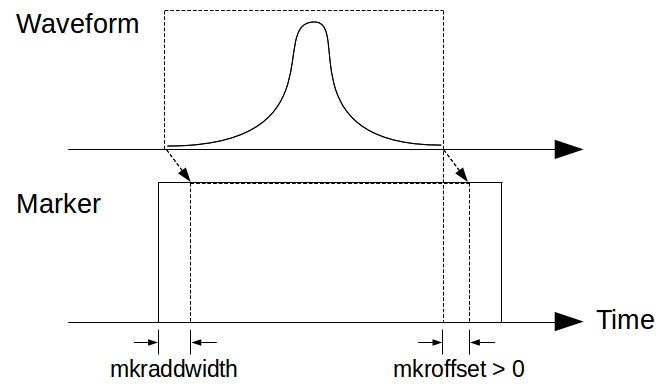
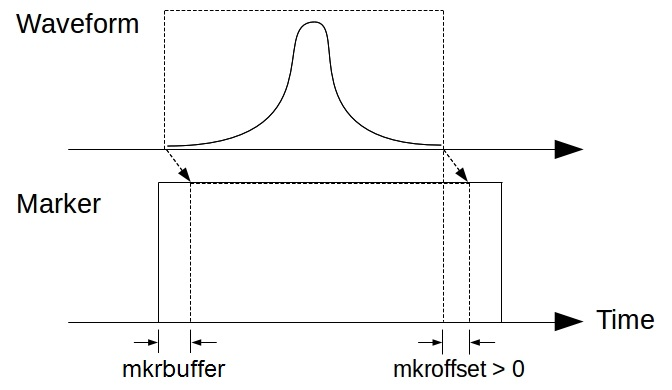
Gengyan - Update M9330AWG Rename mkraddwidth with mkrbuffer

Changed region(s): [[0.1562, 0.9231, 0.375, 0.9846]]

diff --git a/@M9330AWG/M9330AWG.m b/@M9330AWG/M9330AWG.m
@@ -16,11 +16,14 @@ classdef M9330AWG < handle
         marker4 = zeros(1, 256);
         mkrauto = 1; % Automatic marker option
         mkroffset = 0; % Shift marker with respect to waveform
-        mkraddwidth = 32; % Additional marker width outside waveform
+        mkrbuffer = 32; % Additional marker width outside waveform
         TRIGINPORT = 1;	% Port number for trigger input
         OUTPUTCONFIG = 2;	% 0 = differential, gain can be 0.340 to 0.500
                            	% 1 = single-ended, gain can be 0.170 to 0.250 
                          	% 2 = amplified (single-ended), gain can be 0.340 to 0.500
+    end
+    properties (Hidden)
+        mkraddwidth;
     end
     
     methods
@@ -45,6 +48,13 @@ classdef M9330AWG < handle
             samplingrate = GetSampleRate(self);
         end
         
+        function set.mkraddwidth(self, buffer)
+            SetMkrBuffer(self, buffer);
+        end
+        
+        function buffer = get.mkraddwidth(self)
+            buffer = GetMkrBuffer(self);
+        end
         % Declaration of all methods
         % Each method is defined in a separate file
         Initialize(self);
@@ -61,5 +71,7 @@ classdef M9330AWG < handle
     methods (Hidden)
         % Deprecated methods
         AutoMarker(self);
+        SetMkrBuffer(self, buffer);
+        buffer = GetMkrBuffer(self);
     end
 end

diff --git a/@M9330AWG/Generate.m b/@M9330AWG/Generate.m
@@ -51,12 +51,12 @@ function Generate(self)
         % Rescale waveforms to fullscale
         waveforms(ch, :) = waveforms(ch, :) * fullscale;
         if self.mkrauto
-            % Increase marker width by 2*mkraddwidth
+            % Increase marker width by 2*mkrbuffer
             for index = find(diff(markers(2*ch,:))) % Find all jumps in marker
                 if (markers(2*ch, index) == 0)    % Rising edge
-                    markers(2*ch, max(1, index-self.mkraddwidth+1):index) = 1;
+                    markers(2*ch, max(1, index-self.mkrbuffer+1):index) = 1;
                 else % Falling edge
-                    markers(2*ch, index+1:min(newlength, index+self.mkraddwidth)) = 1;
+                    markers(2*ch, index+1:min(newlength, index+self.mkrbuffer)) = 1;
                 end
             end
             % Shift marker by mkroffset

diff --git a/ExampleCode/ExampleCode_M9330A.m b/ExampleCode/ExampleCode_M9330A.m
@@ -29,17 +29,17 @@ pulsegen1.Generate();
 
 % Plot waveforms and markers
 figure(1);
-subplot(2,1,1);
+subplot(2, 1, 1);
 hold off;
 plot(pulsegen1.timeaxis/1e-6, pulsegen1.waveform1);
 hold on;
-plot(pulsegen1.timeaxis/1e-6, pulsegen1.marker1, 'r');
+plot(pulsegen1.timeaxis/1e-6, pulsegen1.marker2, 'r');
 title('Channel 1');
 legend('Waveform', 'Marker');
-subplot(2,1,2);
+subplot(2, 1, 2);
 hold off;
 plot(pulsegen1.timeaxis/1e-6, pulsegen1.waveform2/max(abs(pulsegen1.waveform2)));
 hold on;
-plot(pulsegen1.timeaxis/1e-6, pulsegen1.marker2, 'r');
+plot(pulsegen1.timeaxis/1e-6, pulsegen1.marker4, 'r');
 xlabel('Time (\mus)');
 title('Channel 2');

diff --git a/@M9330AWG/GetMkrBuffer.m b/@M9330AWG/GetMkrBuffer.m
@@ -1,0 +1,4 @@
+function buffer = GetMkrBuffer(self)
+    warning('''mkraddwidth'' is deprecated. Use ''mkrbuffer'' instead.');
+    buffer = self.mkrbuffer;
+end

diff --git a/@M9330AWG/SetMkrBuffer.m b/@M9330AWG/SetMkrBuffer.m
@@ -1,0 +1,4 @@
+function SetMkrBuffer(self, buffer)
+    warning('''mkraddwidth'' is deprecated. Use ''mkrbuffer'' instead.');
+    self.mkrbuffer = buffer;
+end

diff --git a/@M9330AWG/README.md b/@M9330AWG/README.md
@@ -31,9 +31,9 @@ pulsegen.Generate();
 ### Basic usage
 - For basic usage, setting the properties `waveform1`, `waveform2` and `timeaxis` should be enough. They should all be 1 × N row vectors and the pulse duration should be longer than 128/(sampling rate). The waveforms will be generated in channel 1 and 2 every time an external trigger is received.
 - The values of waveforms should be between -1 and 1. If not, they will be normalized. In default setup (OUTPUTCONFIG = 2), waveform value = ± 1 correspond to output voltage = ± 0.5 V (See the discussion of **OUTPUTCONFIG** below for details).
-- When `mkrauto = 1`, **marker 2/4** will be automatically created for non-zero values of **waveform 1/2** and **marker 1** will be a trigger at the start of each waveform. **marker 3** can be customized for your purpose and has to be of the same length as the timeaxis and waveforms. The properties **mkraddwidth** and **mkroffset** are integers in unit of raw samples. Their effect is shown in the figure below.
+- When `mkrauto = 1`, **marker 2/4** will be automatically created for non-zero values of **waveform 1/2** and **marker 1** will be a trigger at the start of each waveform. **marker 3** can be customized for your purpose and has to be of the same length as the timeaxis and waveforms. The properties **mkrbuffer** and **mkroffset** are integers in unit of raw samples. Their effect is shown in the figure below.
     <div style="text-align:center"><img src="./marker.jpg" alt="Marker figure" align="middle"/></div>
-- When `mkrauto = 0`, all markers need to be provided manually and should be row vectors with the same length as `waveform1`. The non-zero values in markers will be considered as marker on.  **mkraddwidth and mkroffset have no effect**.
+- When `mkrauto = 0`, all markers need to be provided manually and should be row vectors with the same length as `waveform1`. The non-zero values in markers will be considered as marker on.  **mkrbuffer and mkroffset have no effect**.
 - Trigger for the AWG needs to be fed to **TRIGINPORT (default = 1)**.
 - If `timeaxis` is not in the sampling rate of the instrument, the waveforms and timeaxis will be interpolated to fit the hardware sampling rate.
 - Zeros will be added to the end of waveforms if the number of points are not multiple of 8.
@@ -60,7 +60,7 @@ The command `pulsegen2.SyncWith(pulsegen1)` synchronizes two M9330A modules by s
   * **marker3** (*float*): Row vector that defines marker 3
   * **marker4** (*float*): Row vector that defines marker 4
   * **mkrauto** (*integer*): Turns on/off automatic marker, default value = 1
-  * **mkraddwidth** (*integer*): Extra width (in unit of raw samples) for markers, default value = 32
+  * **mkrbuffer** (*integer*): Extra width (in unit of raw samples) for markers, default value = 32
   * **mkroffset** (*integer*): Offset (in unit of raw samples) for markers, default value = 0
   * **TRIGINPORT** (*integer*): Port number for trigger input, default value = 1
   * **OUTPUTCONFIG** (*integer*): Output mode, default value = 2
